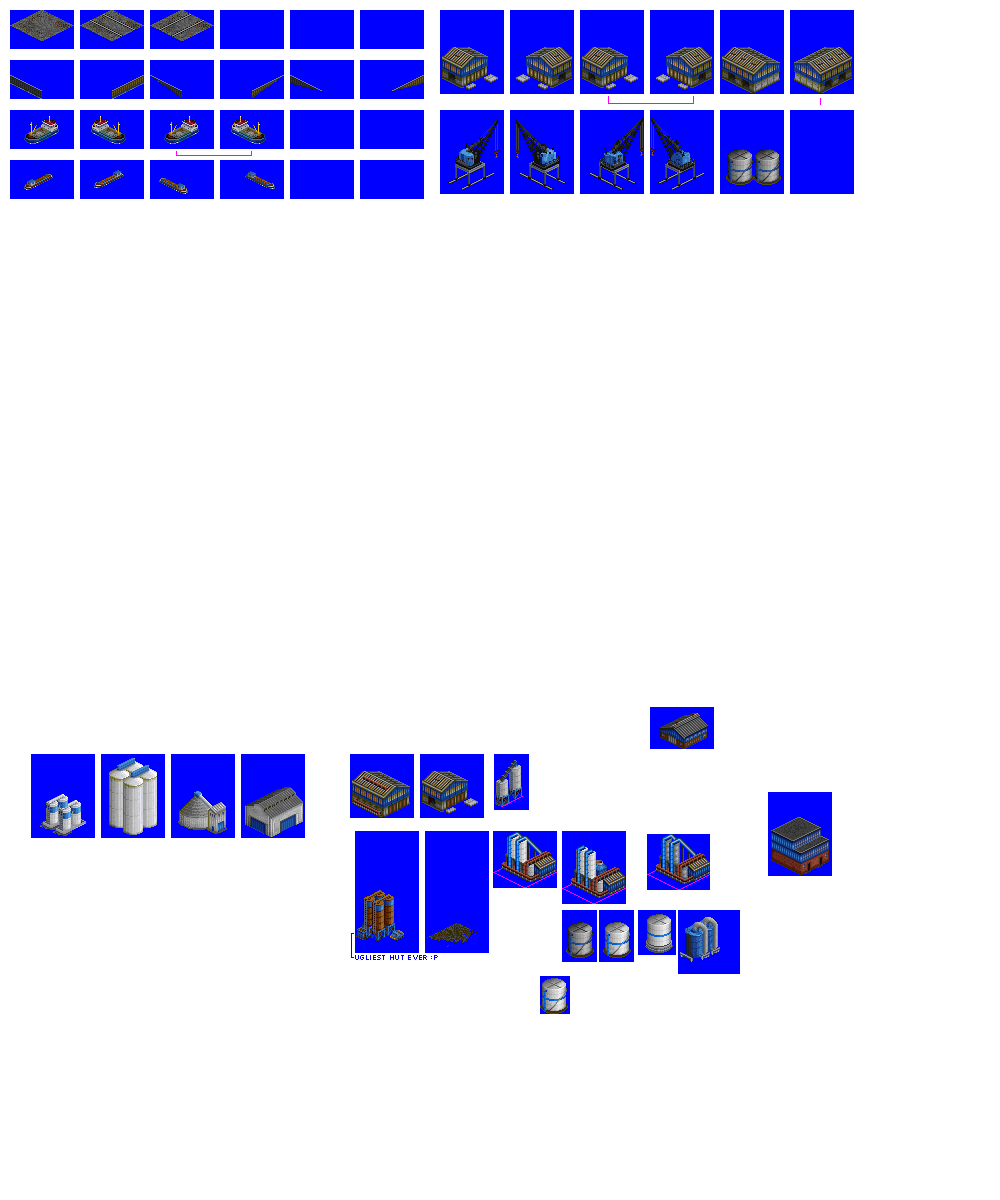
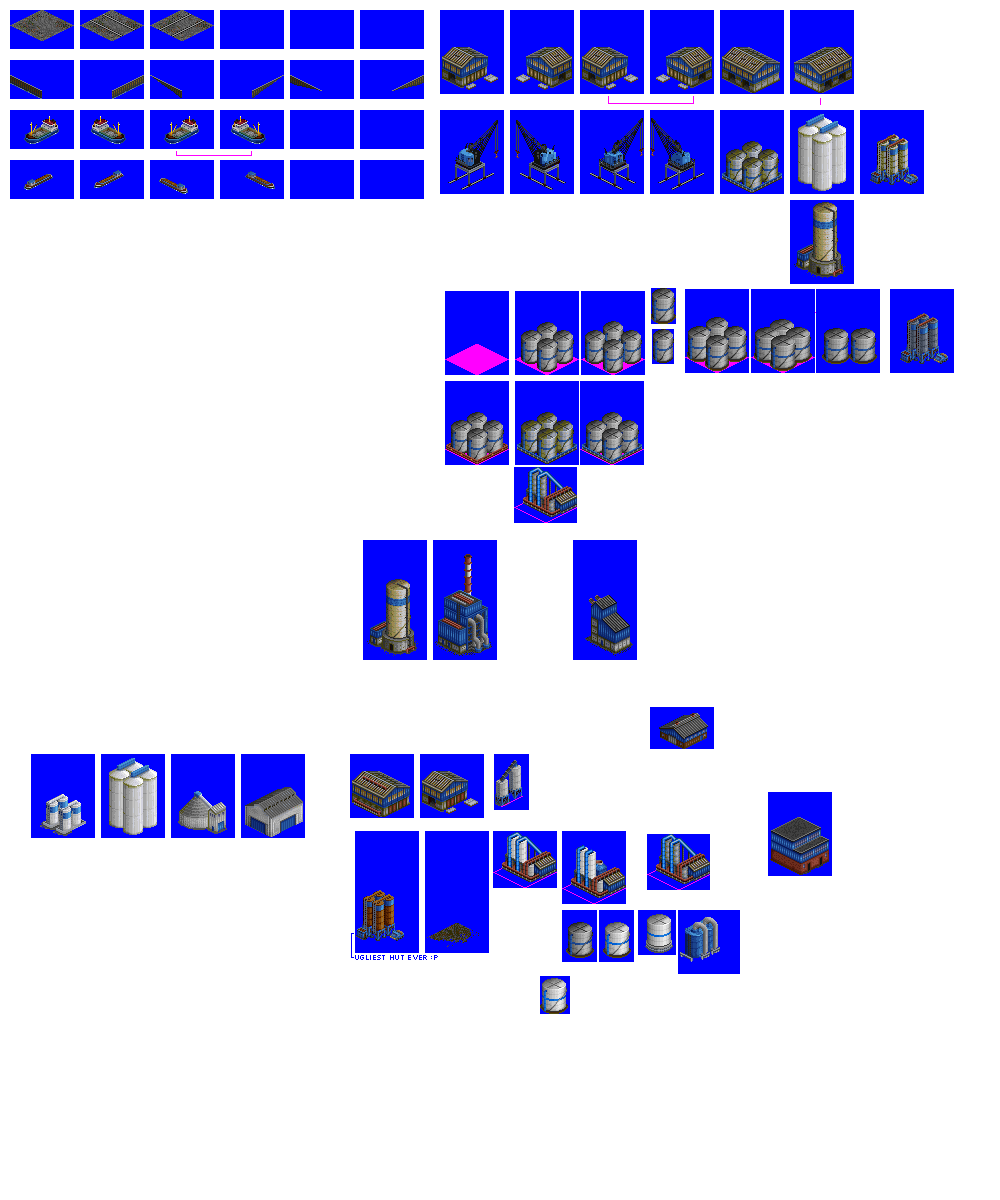
Change: swap Port <-> Wharf cargos in Steeltown, looks better this way round

Changed region(s): [[0.434, 0.0925, 0.961, 0.555], [0.341, 0.4317, 0.496, 0.555]]

diff --git a/src/industries/wharf.py b/src/industries/wharf.py
@@ -48,20 +48,12 @@ industry.enable_in_economy(
 industry.enable_in_economy(
     "STEELTOWN",
     # quite a lot of accepted types, this is intentional to provide flexibility in obtaining boost
-    accept_cargo_types=[
-        "FOOD",
-        "LYE_",
-        "CMNT",
-        "HWAR",
-        "PPWK",
-        "VEHI",
-        "GOOD",
-    ],
+    accept_cargo_types=["FOOD", "POTA", "CHLO", "CMNT", "STIG", "STSE", "STSH"],
     prod_cargo_types_with_multipliers=[
-        ("ENSP", 12),
-        ("POWR", 14),
-        ("COAT", 10),
-        ("SOAP", 10),
+        ("RUBR", 16),
+        ("FEAL", 20),
+        ("ALUM", 11),
+        ("ZINC", 16),
     ],
 )
 
@@ -129,6 +121,12 @@ spriteset_warehouse_ne_sw = industry.add_spriteset(
 )
 spriteset_tank_medium = industry.add_spriteset(
     sprites=[(720, 110, 64, 84, -31, -61)],
+)
+spriteset_silo_1 = industry.add_spriteset(
+    sprites=[(790, 110, 64, 84, -31, -61)],
+)
+spriteset_silo_2 = industry.add_spriteset(
+    sprites=[(860, 110, 64, 84, -31, -61)],
 )
 spriteset_large_crane_ne_sw = industry.add_spriteset(
     sprites=[(440, 110, 64, 84, -31, -43)],
@@ -323,6 +321,54 @@ industry.add_magic_spritelayout(
 )
 industry.add_magic_spritelayout(
     type="jetty_auto_orient_to_coast_direction",
+    base_id="wharf_spritelayout_silo_1_auto_orient",
+    tile="wharf_tile_1",
+    config={
+        "ground_sprite": spriteset_ground_empty,  # should always be empty for this magic spritelayout
+        "foundation_sprites": [spriteset_jetty_ne_sw, spriteset_jetty_se_nw],
+        "jetty_top_sprites": [spriteset_concrete],
+        "building_sprites": {
+            "se": [
+                spriteset_silo_1,
+            ],
+            "sw": [
+                spriteset_silo_1,
+            ],
+            "nw": [
+                spriteset_silo_1,
+            ],
+            "ne": [
+                spriteset_silo_1,
+            ],
+        },
+    },
+)
+industry.add_magic_spritelayout(
+    type="jetty_auto_orient_to_coast_direction",
+    base_id="wharf_spritelayout_silo_2_auto_orient",
+    tile="wharf_tile_1",
+    config={
+        "ground_sprite": spriteset_ground_empty,  # should always be empty for this magic spritelayout
+        "foundation_sprites": [spriteset_jetty_ne_sw, spriteset_jetty_se_nw],
+        "jetty_top_sprites": [spriteset_concrete],
+        "building_sprites": {
+            "se": [
+                spriteset_silo_2,
+            ],
+            "sw": [
+                spriteset_silo_2,
+            ],
+            "nw": [
+                spriteset_silo_2,
+            ],
+            "ne": [
+                spriteset_silo_2,
+            ],
+        },
+    },
+)
+industry.add_magic_spritelayout(
+    type="jetty_auto_orient_to_coast_direction",
     base_id="wharf_spritelayout_warehouse_half_auto_orient",
     tile="wharf_tile_1",
     config={
@@ -423,8 +469,8 @@ industry.add_industry_jetty_layout(
         (0, 0, "wharf_spritelayout_coast_empty"),
         (0, 1, "wharf_spritelayout_warehouse_full_auto_orient"),
         (0, 2, "wharf_spritelayout_warehouse_full_auto_orient"),
-        (0, 3, "wharf_spritelayout_warehouse_full_auto_orient"),
-        (0, 4, "wharf_spritelayout_warehouse_half_auto_orient"),
+        (0, 3, "wharf_spritelayout_silo_2_auto_orient"),
+        (0, 4, "wharf_spritelayout_silo_1_auto_orient"),
         (0, 5, "wharf_spritelayout_warehouse_full_auto_orient"),
         (0, 6, "wharf_spritelayout_crane_rails_orthogonal_auto_orient"),
         (0, 7, "spritelayout_null_water"),
@@ -458,20 +504,20 @@ industry.add_industry_jetty_layout(
         (0, 6, "spritelayout_null_water"),
         (0, 7, "spritelayout_null_water"),
         # ensure spacing from coast, to improve map-gen buildabilty
-        (1, 2, "wharf_spritelayout_tanks_auto_orient"),
-        (1, 3, "wharf_spritelayout_tanks_auto_orient"),
+        (1, 2, "wharf_spritelayout_silo_2_auto_orient"),
+        (1, 3, "wharf_spritelayout_silo_1_auto_orient"),
         (1, 5, "wharf_spritelayout_warehouse_full_auto_orient"),
         (1, 6, "wharf_spritelayout_crane_orthogonal_auto_orient"),
         (1, 7, "spritelayout_null_water"),
         # ensure spacing from coast, to improve map-gen buildabilty
-        (2, 2, "wharf_spritelayout_tanks_auto_orient"),
-        (2, 3, "wharf_spritelayout_tanks_auto_orient"),
+        (2, 2, "wharf_spritelayout_warehouse_full_auto_orient"),
+        (2, 3, "wharf_spritelayout_warehouse_full_auto_orient"),
         (2, 4, "wharf_spritelayout_water_ship_auto_orient"),
         (2, 5, "wharf_spritelayout_warehouse_full_auto_orient"),
         (2, 6, "wharf_spritelayout_crane_rails_orthogonal_auto_orient"),
         (2, 7, "spritelayout_null_water"),
         (3, 0, "wharf_spritelayout_coast_empty"),
-        (3, 1, "wharf_spritelayout_warehouse_half_auto_orient"),
+        (3, 1, "wharf_spritelayout_tanks_auto_orient"),
         (3, 2, "wharf_spritelayout_warehouse_half_auto_orient"),
         (3, 3, "wharf_spritelayout_warehouse_half_auto_orient"),
         (3, 4, "wharf_spritelayout_warehouse_half_auto_orient"),

diff --git a/src/industries/port.py b/src/industries/port.py
@@ -82,12 +82,20 @@ industry.enable_in_economy(
 industry.enable_in_economy(
     "STEELTOWN",
     # quite a lot of accepted types, this is intentional to provide flexibility in obtaining boost
-    accept_cargo_types=["FOOD", "POTA", "CHLO", "CMNT", "STIG", "STSE", "STSH"],
+    accept_cargo_types=[
+        "FOOD",
+        "LYE_",
+        "CMNT",
+        "HWAR",
+        "PPWK",
+        "VEHI",
+        "GOOD",
+    ],
     prod_cargo_types_with_multipliers=[
-        ("RUBR", 16),
-        ("FEAL", 20),
-        ("ALUM", 11),
-        ("ZINC", 16),
+        ("ENSP", 12),
+        ("POWR", 14),
+        ("COAT", 10),
+        ("SOAP", 10),
     ],
 )
 # industry.economy_variations['IN_A_HOT_COUNTRY'].accept_cargo_types = ['DIAM', 'EOIL', 'JAVA', 'WDPR']
